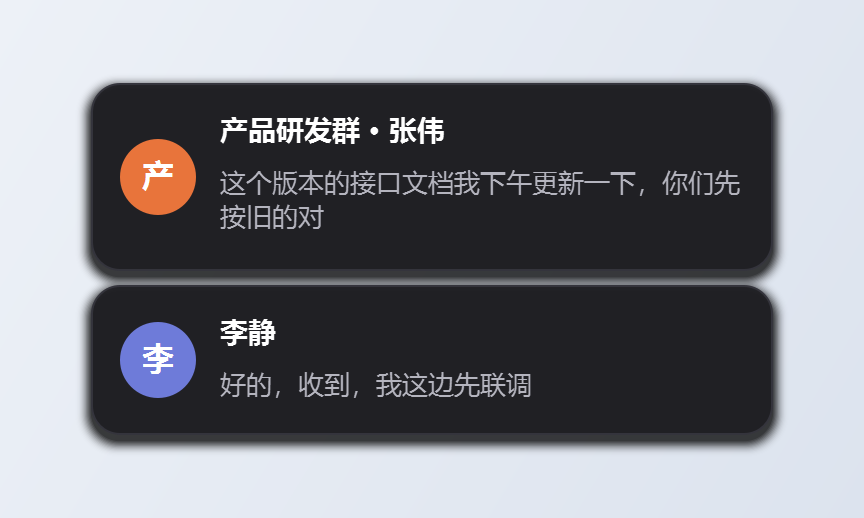
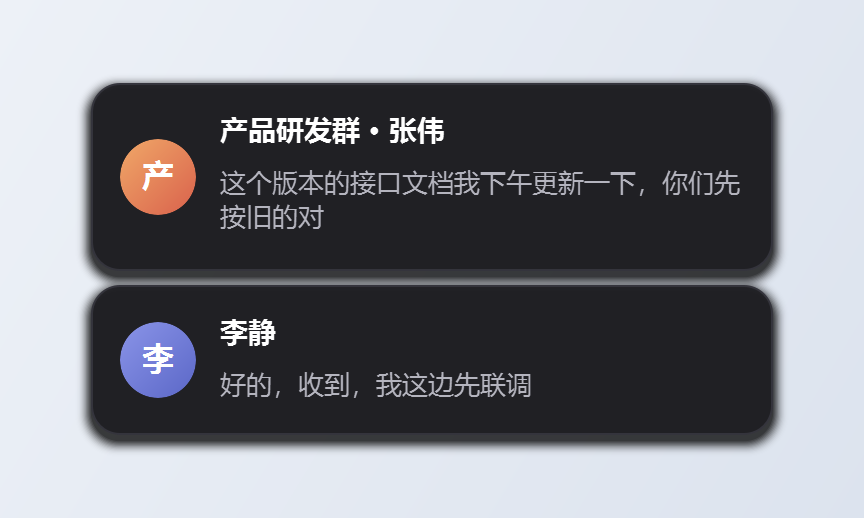
fix(ui): 调整设置窗口高度，避免新增的头像分组被截断
窗口默认 880 高，并在小屏上自动压到可用高度内，内容区保留滚动。

Changed region(s): [[0.125, 0.2471, 0.25, 0.4324]]

diff --git a/settings_window.py b/settings_window.py
@@ -8,7 +8,7 @@ from typing import Callable, Optional
 
 from PySide6.QtCore import QPoint, QRect, QRectF, Qt, QTimer, Signal
 from PySide6.QtGui import (
-    QColor, QFontMetrics, QLinearGradient, QPainter, QPainterPath, QPixmap,
+    QColor, QFontMetrics, QGuiApplication, QLinearGradient, QPainter, QPainterPath, QPixmap,
 )
 from PySide6.QtWidgets import (
     QCheckBox, QComboBox, QFrame, QGroupBox, QHBoxLayout, QLabel, QListView,
@@ -228,8 +228,8 @@ class SettingsWindow(QWidget):
         self._loading = False
 
         self.setWindowTitle("微信消息提示 · 设置")
-        self.setMinimumSize(880, 620)
-        self.resize(940, 820)
+        self.setMinimumSize(880, 560)
+        self.resize(940, 880)
         self.setStyleSheet(STYLE)
 
         self._preview_timer = QTimer(self)
@@ -498,6 +498,13 @@ class SettingsWindow(QWidget):
         if cfg is not None:
             self._cfg = cfgmod.normalize(dict(cfg))
             self._load_from_cfg()
+
+        # 小屏幕上把窗口压到可用高度内，内容区自带滚动条
+        screen = QGuiApplication.primaryScreen().availableGeometry()
+        max_h = screen.height() - 60
+        if self.height() > max_h:
+            self.resize(self.width(), max_h)
+
         self._refresh_preview()
         self.show()
         self.raise_()
